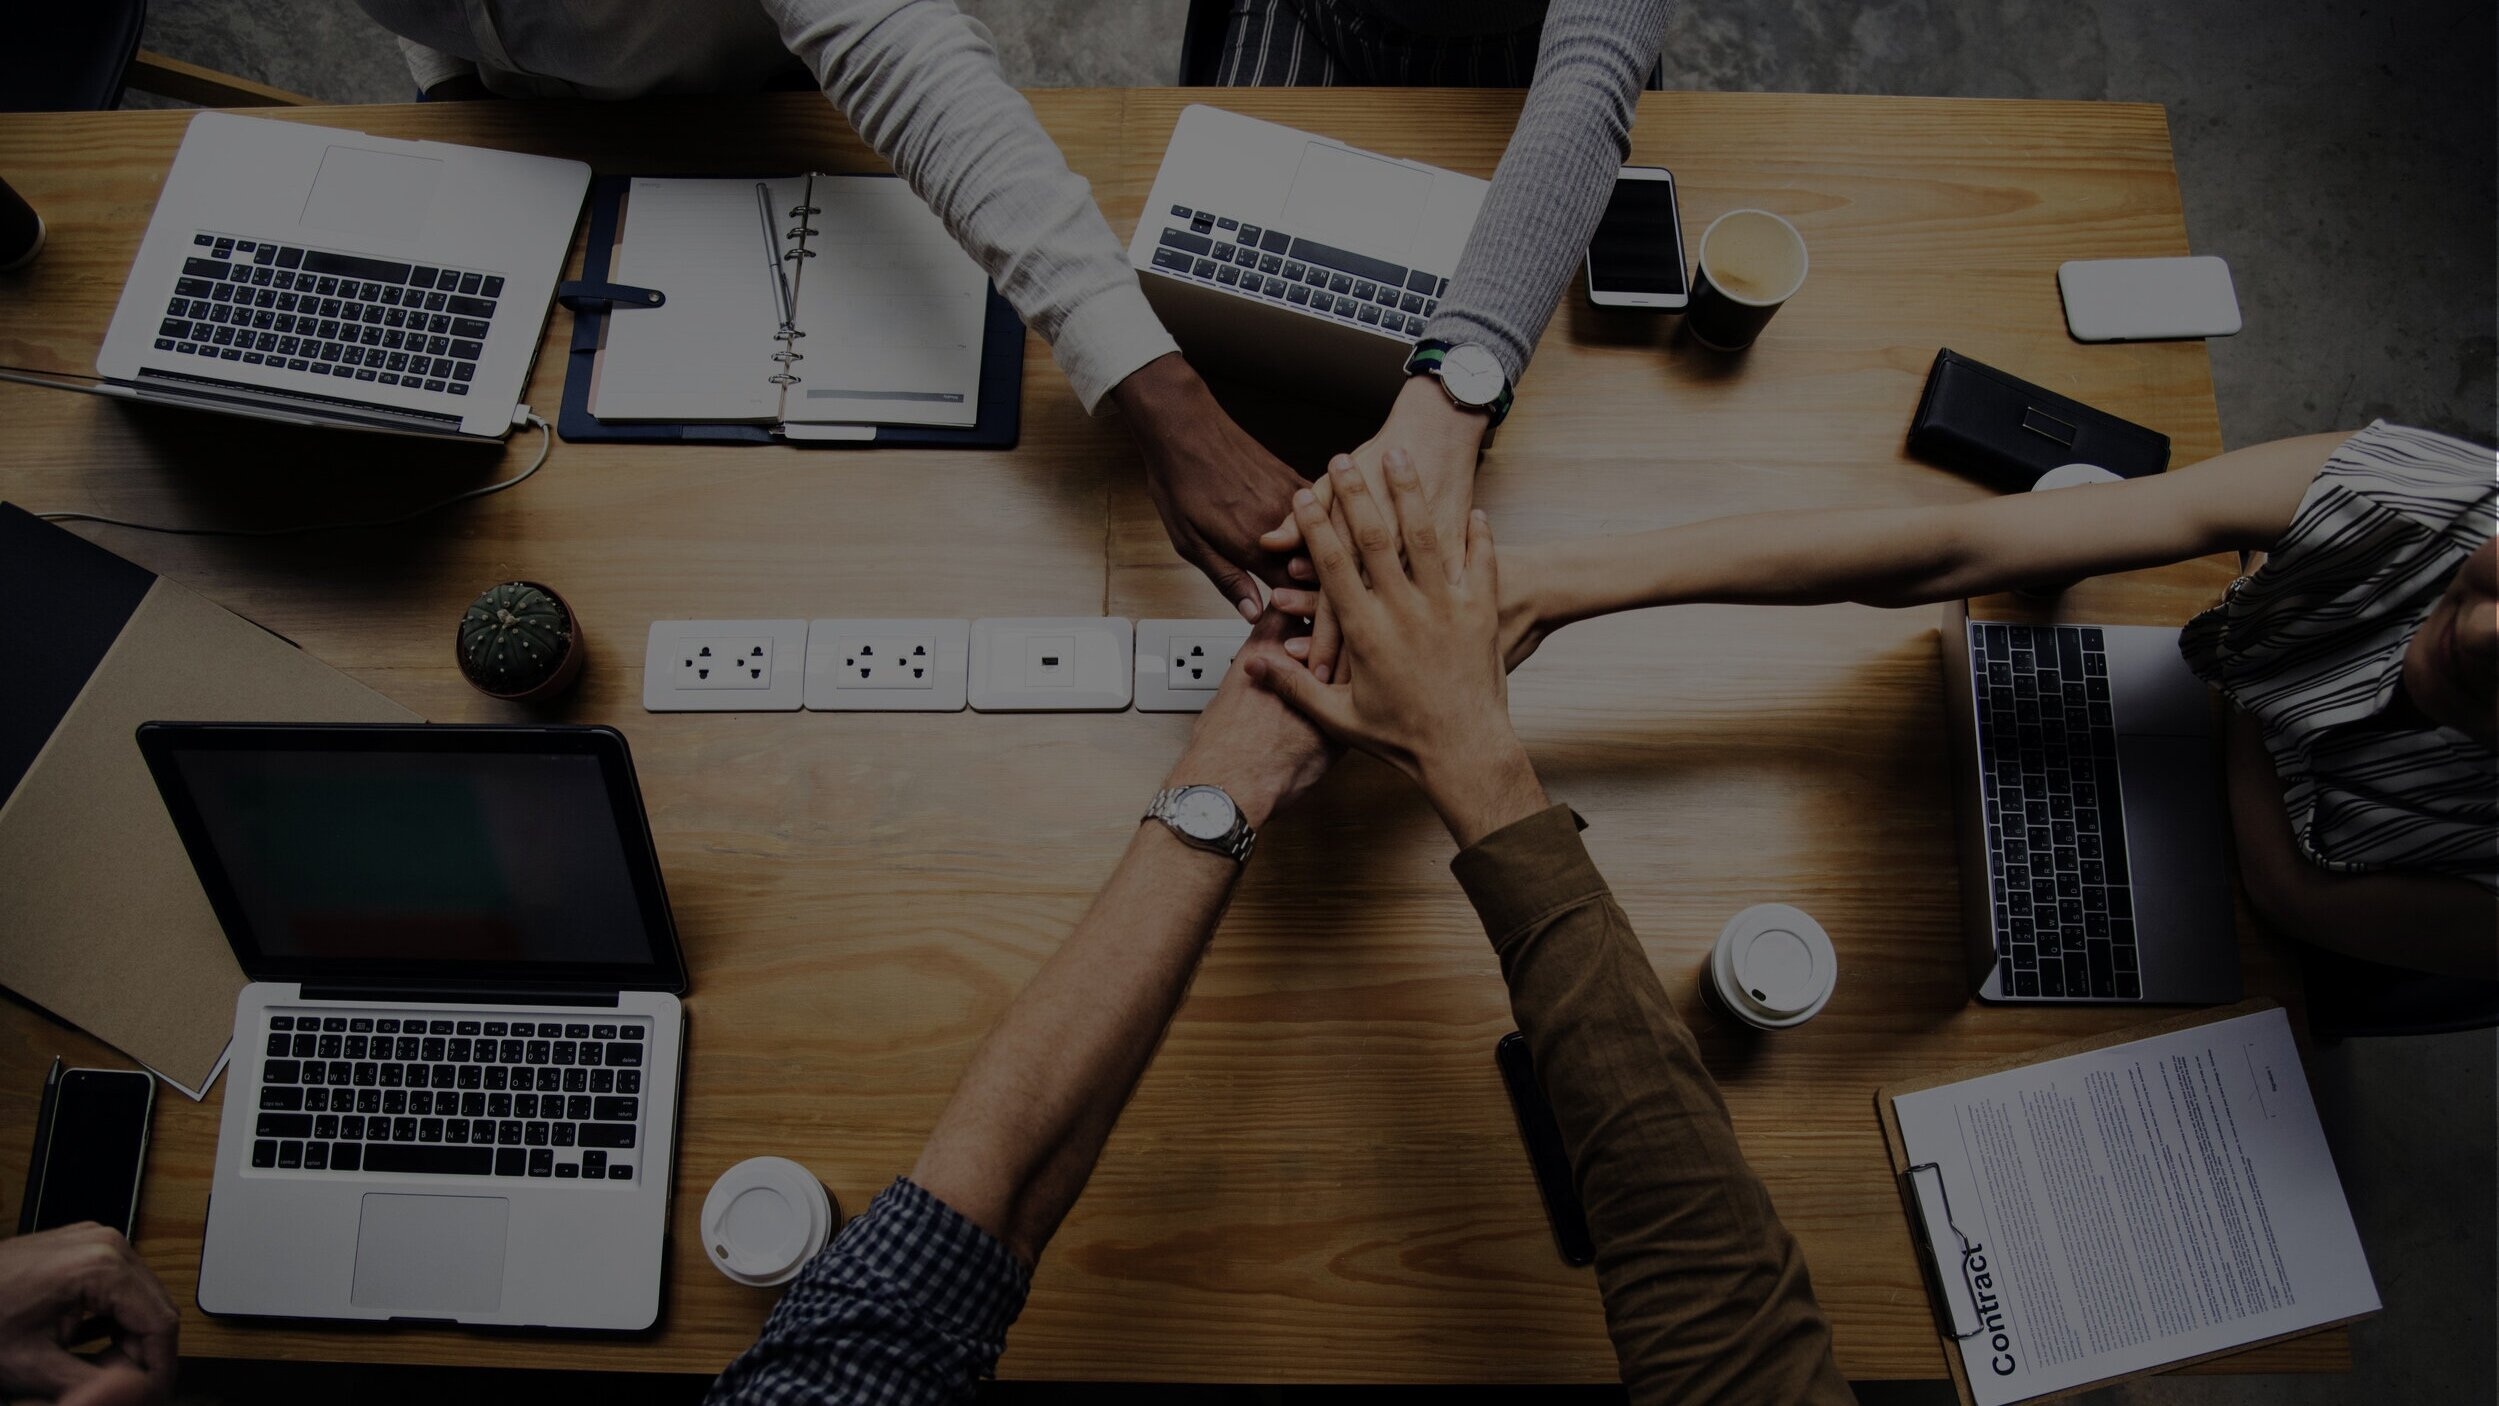
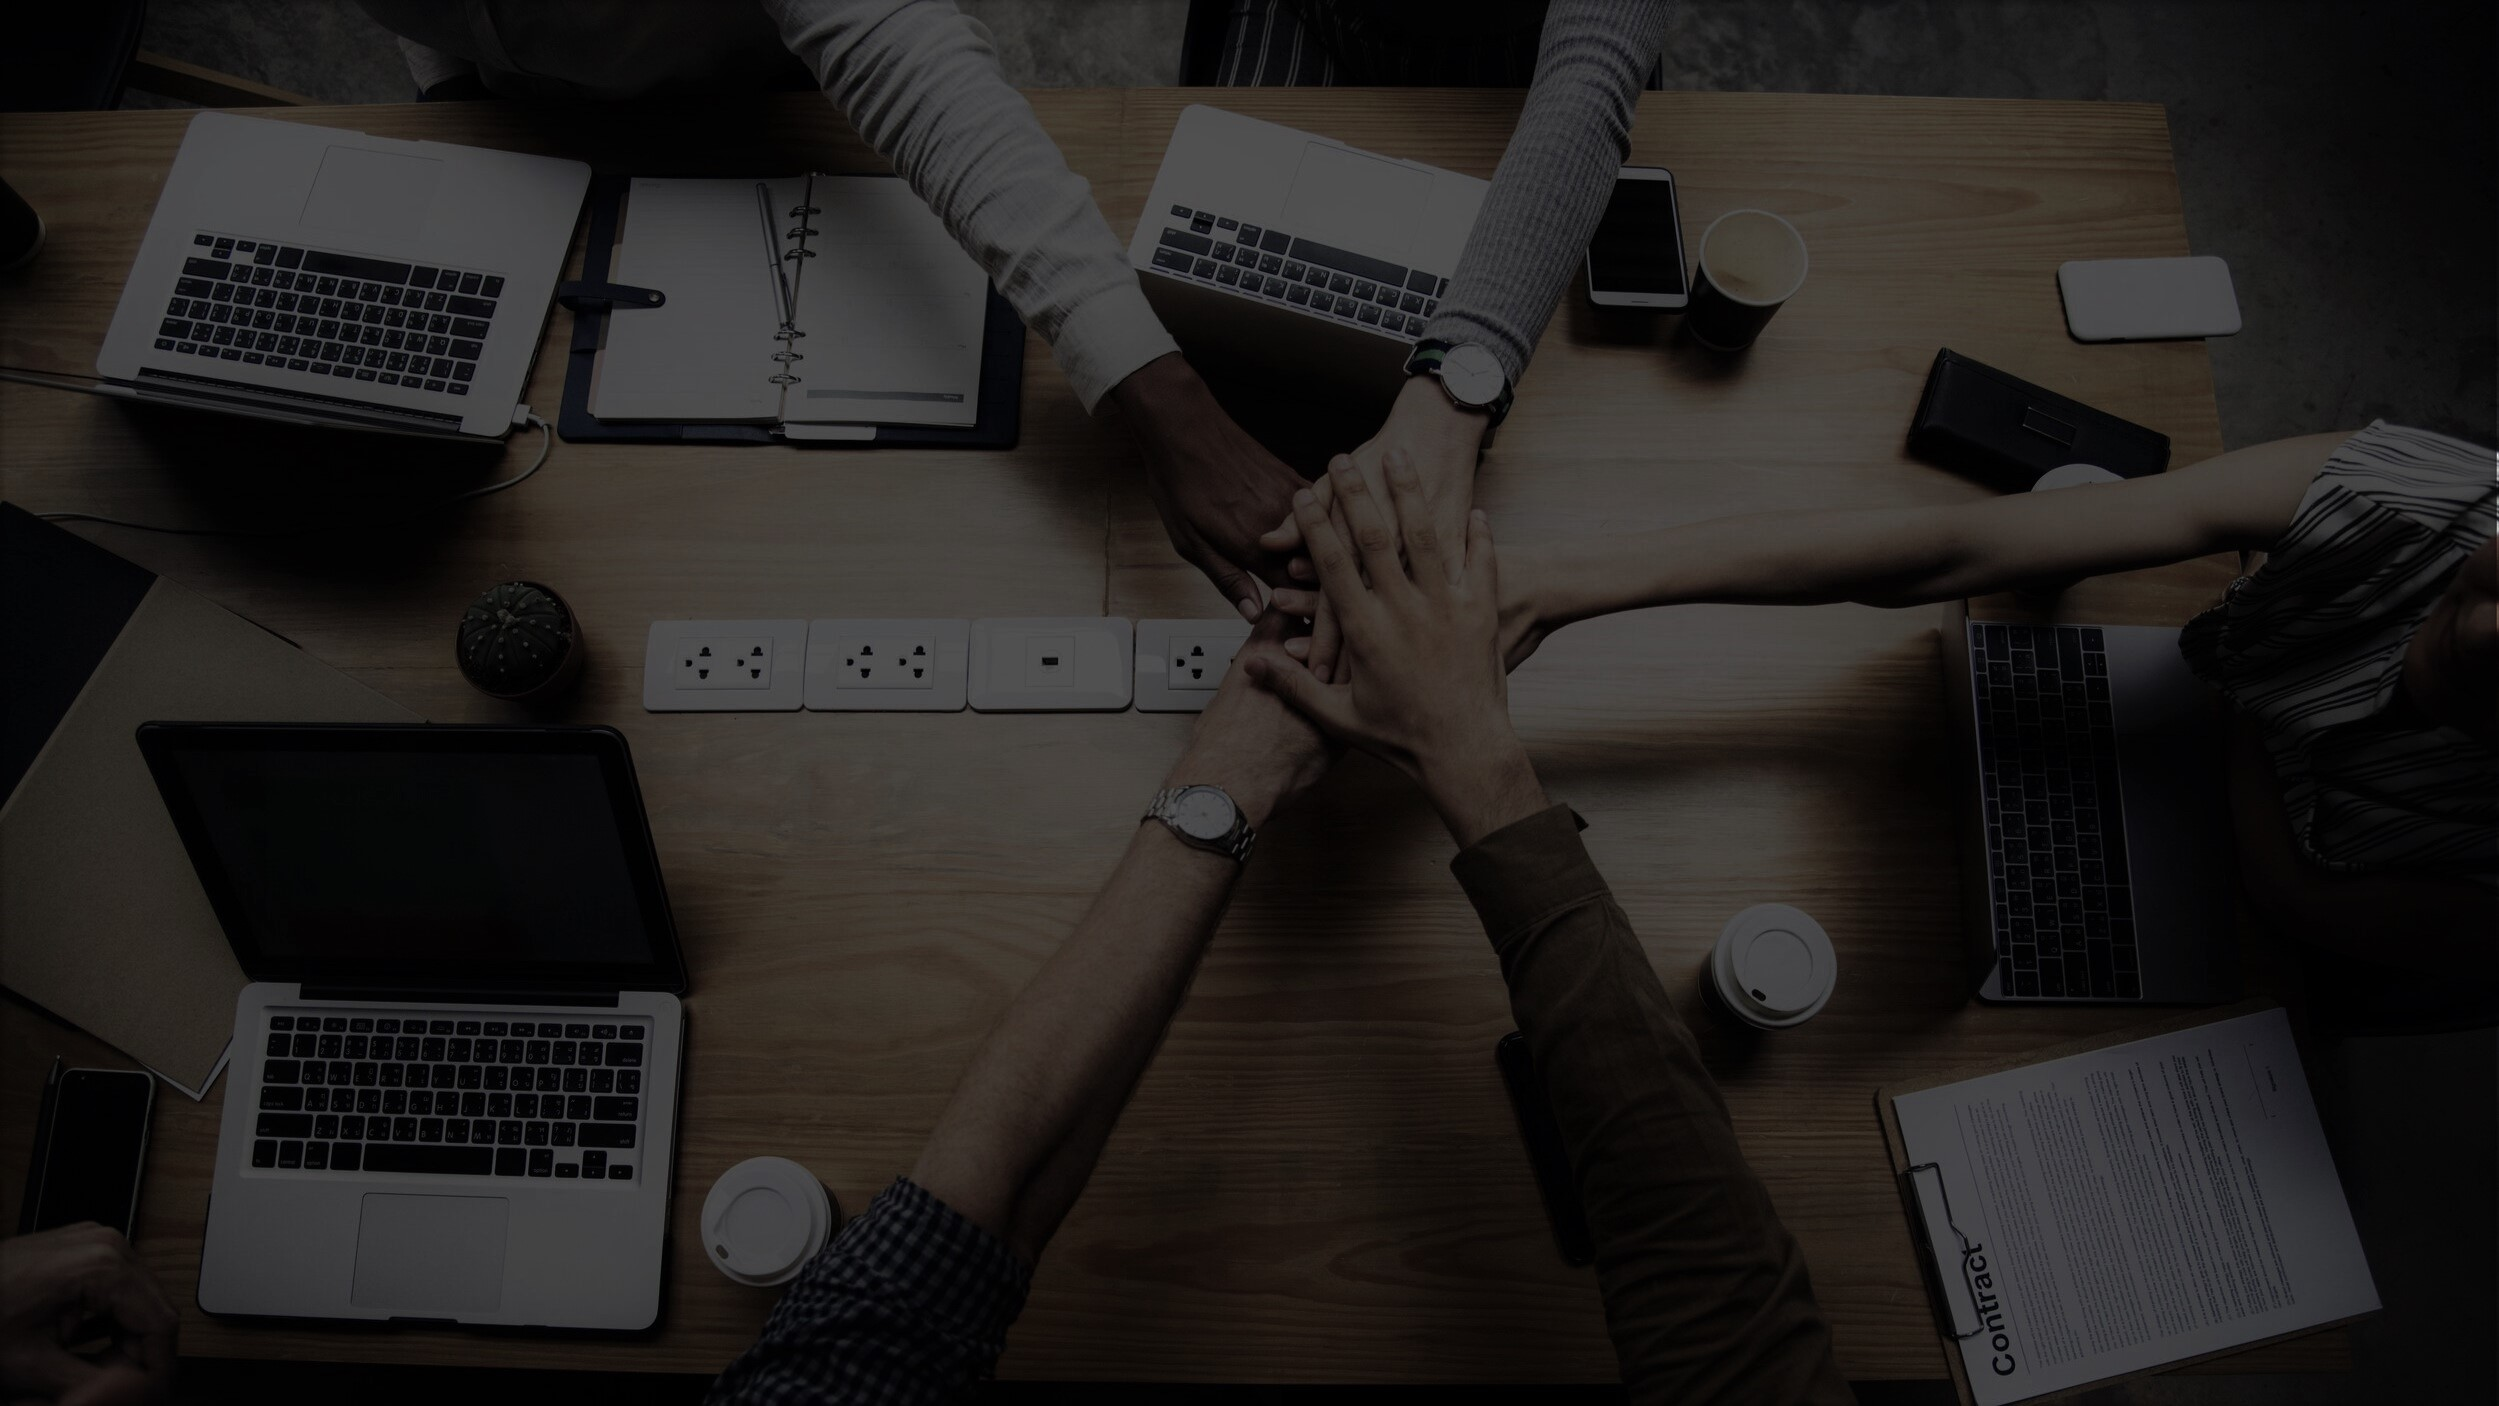
Modified UI and changed background Images

diff --git a/src/main/webapp/employee.html b/src/main/webapp/employee.html
@@ -2,25 +2,25 @@
 <html lang="en">
 
 <head>
-    <title>Employee Order Placing</title>
+    <title>Employee</title>
     <style>
     
     	#logOut{
-		float: right;
-		margin-right: 10px;
-		margin-top: 10px;
-		padding: 10px 20px;
-		background-color: #000;
-		border: none;
-		color: white;
-		border-radius: 5px;
-	}
-
-	#logOut:hover{
-		cursor: pointer;
-		background-color: #434343;
-	}
-    
+			float: right;
+			margin-right: 10px;
+			margin-top: 10px;
+			padding: 10px 20px;
+			background-color: #000;
+			border: none;
+			color: white;
+			border-radius: 5px;
+		}
+	
+		#logOut:hover{
+			cursor: pointer;
+			background-color: #434343;
+		}
+	    
 		.color-gradient{
 			background: linear-gradient(to bottom,rgba(0,0,0,1.0) 15%,rgba(0,0,0,1.0) 20%,rgba(0,0,0,0.95) 30%,rgba(0,0,0,0.90) 40% , rgba(0,0,0,0.85) 45%,rgba(0,0,0,0.8) 50%,rgba(0,0,0,0.75) 55%,rgba(0,0,0,0.7) 60%,rgba(0,0,0,0.65) 65%,rgba(0,0,0,0.6) 70%,rgba(0,0,0,0.55) 75%,rgba(0,0,0,0.5) 80%,rgba(0,0,0,0.4) 85%,rgba(0,0,0,0.2) 90%,rgba(0,0,0,0.1) 95%,rgba(0,0,0,0.0) 100%);
 			width: 100%;
@@ -36,11 +36,12 @@
 			margin-left: 0%;
 			padding-top:0px;
 			color: white;
-			background-image: url('images/10.png');
+			background-image: url('images/empbg.jpg');
 			background-position:40% 9%;
 			height: 100%;
 			background-size:cover;
 			animation: breath_af 40s linear 1;
+			text-align: center;
 		}
 		
 		@keyframes breath_af {
@@ -54,11 +55,6 @@
 			0% { background-size: 220% auto; }
 			50% { background-size:160% auto; }
 			100% { background-size: 100% auto; }
-		}
-		
-		.animate__bounceIn{
-			animation-delay: 1s;
-			--animate-duration:2s;
 		}
 		
 		.emp_type{
@@ -83,8 +79,11 @@
 		}
 		
 		h1{
-			font-size: 45px;
-			padding-left: 30px;
+			font-weight: bold;
+			color: white;
+			text-shadow: 2px 2px 4px #000000;
+			font-size: 80px;
+			font-family: 'Trebuchet MS', 'Lucida Sans Unicode', 'Lucida Grande', 'Lucida Sans', Arial, sans-serif;
 		}
 		
 		button{
@@ -98,6 +97,7 @@
 			background: linear-gradient(135deg, rgba(0,0,0,1), rgba(255,255,255,0.25));
 			font-family: "Times New Roman", Times, serif;
 			font-size: 20px;
+			font-weight: bold;
 		}
 		
 		button:hover{
@@ -113,10 +113,16 @@
 		.buttons{
 			margin-left: auto;
 			margin-right: auto;
-			margin-top: 50px;
+			margin-top: 100px;
 			display: flex;
 			width: 80%;
 			height: 200px;
+		}
+		
+		.emp_btn{
+			width: 49%;
+			height: 200px;
+			text-align: center;
 		}
 		
 		.managerForms{
@@ -200,23 +206,16 @@
 <body onload = myfunction()>
 
 	<button id = "logOut" style = "width: 120px; height: 50px;" onclick = "window.location.href='loginPage.html'">Log Out</button>
-	
-    <div class="color-gradient">
-		<h1 class="animate__animated animate__zoomInDown">What good is an idea if it remains an idea? </h1>
-		<h1 class="second-head1 animate__animated animate__zoomIn">Try. Experiment. Iterate. Fail. Try again. Change the world.</h1>
-		<h2 class="animate__animated animate__bounceIn">Welcome Employee</h2>
-	</div>
-	
-	<hr class="first-hr animate__shakeY">
+	<br><br>
+	<h1>Welcome Employee</h2>
 
 	<div class="buttons ">
-		<div class="add_button">
+		<div class="emp_btn">
 			<button onclick="displayPlaceOrder()" class="animate__animated animate__bounceIn">Place Order</button>
 		</div>
 		
-		<hr class="animate__bounceInRight">
 		
-		<div class="view_button">
+		<div class="emp_btn">
 			<button onclick = "displayOrderStatus()" class="animate__animated animate__bounceIn">Order Status</button>
 		</div>
 	</div>

diff --git a/src/main/webapp/Supplier.html b/src/main/webapp/Supplier.html
@@ -36,11 +36,12 @@ margin-top: 0%;
 margin-left: 0%;
 padding-top:0px;
 color: white;
-background-image: url('images/supplier.png');
+background-image: url('images/supplierbg.jpg');
 background-position:40% 9%;
 height: 100%;
 background-size:cover;
 animation: breath_af 40s linear 1;
+text-align: center;
 }
 
 @keyframes breath_af {
@@ -80,10 +81,13 @@ hr {
 	font-size: 35px;
 }
 
-h1 {
-	font-size: 45px;
-	padding-left: 30px;
-}
+h1{
+			font-weight: bold;
+			color: white;
+			text-shadow: 2px 2px 4px #000000;
+			font-size: 80px;
+			font-family: 'Trebuchet MS', 'Lucida Sans Unicode', 'Lucida Grande', 'Lucida Sans', Arial, sans-serif;
+		}
 
 button {
 	margin-top: 10px;
@@ -97,6 +101,8 @@ button {
 	background: linear-gradient(135deg, rgba(0, 0, 0, 1),
 		rgba(255, 255, 255, 0.25));
 	font-family: "Times New Roman", Times, serif;
+	font-size: 20px;
+	font-weight: bold;
 }
 
 button:hover {
@@ -113,11 +119,17 @@ b {
 .buttons {
 	margin-left: auto;
 	margin-right: auto;
-	margin-top: 50px;
+	margin-top: 100px;
 	display: flex;
 	width: 80%;
 	height: 200px;
 }
+
+.sup_btn{
+			width: 49%;
+			height: 200px;
+			text-align: center;
+		}
 
 .supplierForms{
 			display: none;
@@ -211,24 +223,18 @@ function closeViewOrder(){
 <body onload = myfunction()>
 	
 	<button id = "logOut" style = "width: 120px; height: 50px;" onclick = "window.location.href='loginPage.html'">Log Out</button>
-	
-	<div class="color-gradient">
-		<center>
-			<h1 class="second-head1 animate__animated animate__zoomIn">Welcome
-				Supplier</h1>
-		</center>
-	</div>
+	<br><br>
+	<h1>Welcome Supplier</h1>
 
 	<div class="buttons ">
-		<div class="add_button">
+		<div class="sup_btn">
 			<button onclick="displayOrders()" class="animate__animated animate__bounceIn">View Orders</button>
 		</div>
-		<hr class="animate__bounceInRight">
-		<div class="view_button">
+
+		<div class="sup_btn">
 			<button onclick="displayAddProduct()" class="animate__animated animate__bounceIn">Add Product</button>
 		</div>
 	</div>
-	</center>
 	
 	<div id = "frameContainer">
 		<div id = "viewOrder" class = "supplierForms wideContainer">

diff --git a/src/main/webapp/admin.html b/src/main/webapp/admin.html
@@ -52,25 +52,18 @@
     
 </head>
 <body onload = "myFunction()">
-	<div class="color-gradient">
 	<button id = "logOut" style = "width: 120px; height: 50px;" onclick = "window.location.href='loginPage.html'">Log Out</button>
 	<br><br>
 	<h1>Welcome Admin</h2>
-	
-	</div>
-	
+		
 	<p id = "message" style = "color: white;"></p>
-	
-	<hr class="first-hr animate__shakeY">
-	
+		
 	<div class="buttons ">
-		<div class="add_button">
-			<button onclick="document.getElementById('addUserForm').style.display = 'block'" class="animate__animated animate__bounceIn"><b>Add User</a></b></button>
+		<div class="admin_btn">
+			<button onclick="document.getElementById('addUserForm').style.display = 'block'" class="animate__animated animate__bounceIn">Add User</a></button>
 		</div>
-		
-		<hr class="animate__bounceInRight">
-		
-		<div class="view_button">
+				
+		<div class="admin_btn">
 			<button class="animate__animated animate__bounceIn" onclick = "displayUsers()">View User</button> <!-- <b> <a href="ViewServlet" style="color:white;"> -->
 		</div>
 	</div>
@@ -264,11 +257,6 @@
 		font-size: 35px;
 	}
 	
-	h1{
-		font-size: 45px;
-		padding-left: 30px;
-	}
-	
 	button{
 		margin-top: 10px;
 		width:150px;
@@ -289,18 +277,20 @@
 		cursor: pointer;
 	}
 	
-	b{
-		font-size: 25px;
-	}
-	
 	.buttons{
 		margin-left: auto;
 		margin-right: auto;
-		margin-top: 50px;
+		margin-top: 100px;
 		display: flex;
 		width: 80%;
 		height: 200px;
 	}
+	
+	.admin_btn{
+			width: 49%;
+			height: 200px;
+			text-align: center;
+		}
 	
 	#addUserForm{
 		display: none;

diff --git a/src/main/webapp/qualityManager.html b/src/main/webapp/qualityManager.html
@@ -41,7 +41,7 @@
 	.button-container{
 		margin-left: auto;
 		margin-right: auto;
-		margin-top: 200px;
+		margin-top: 50px;
 		display: flex;
 		width: 80%;
 		height: 200px;
